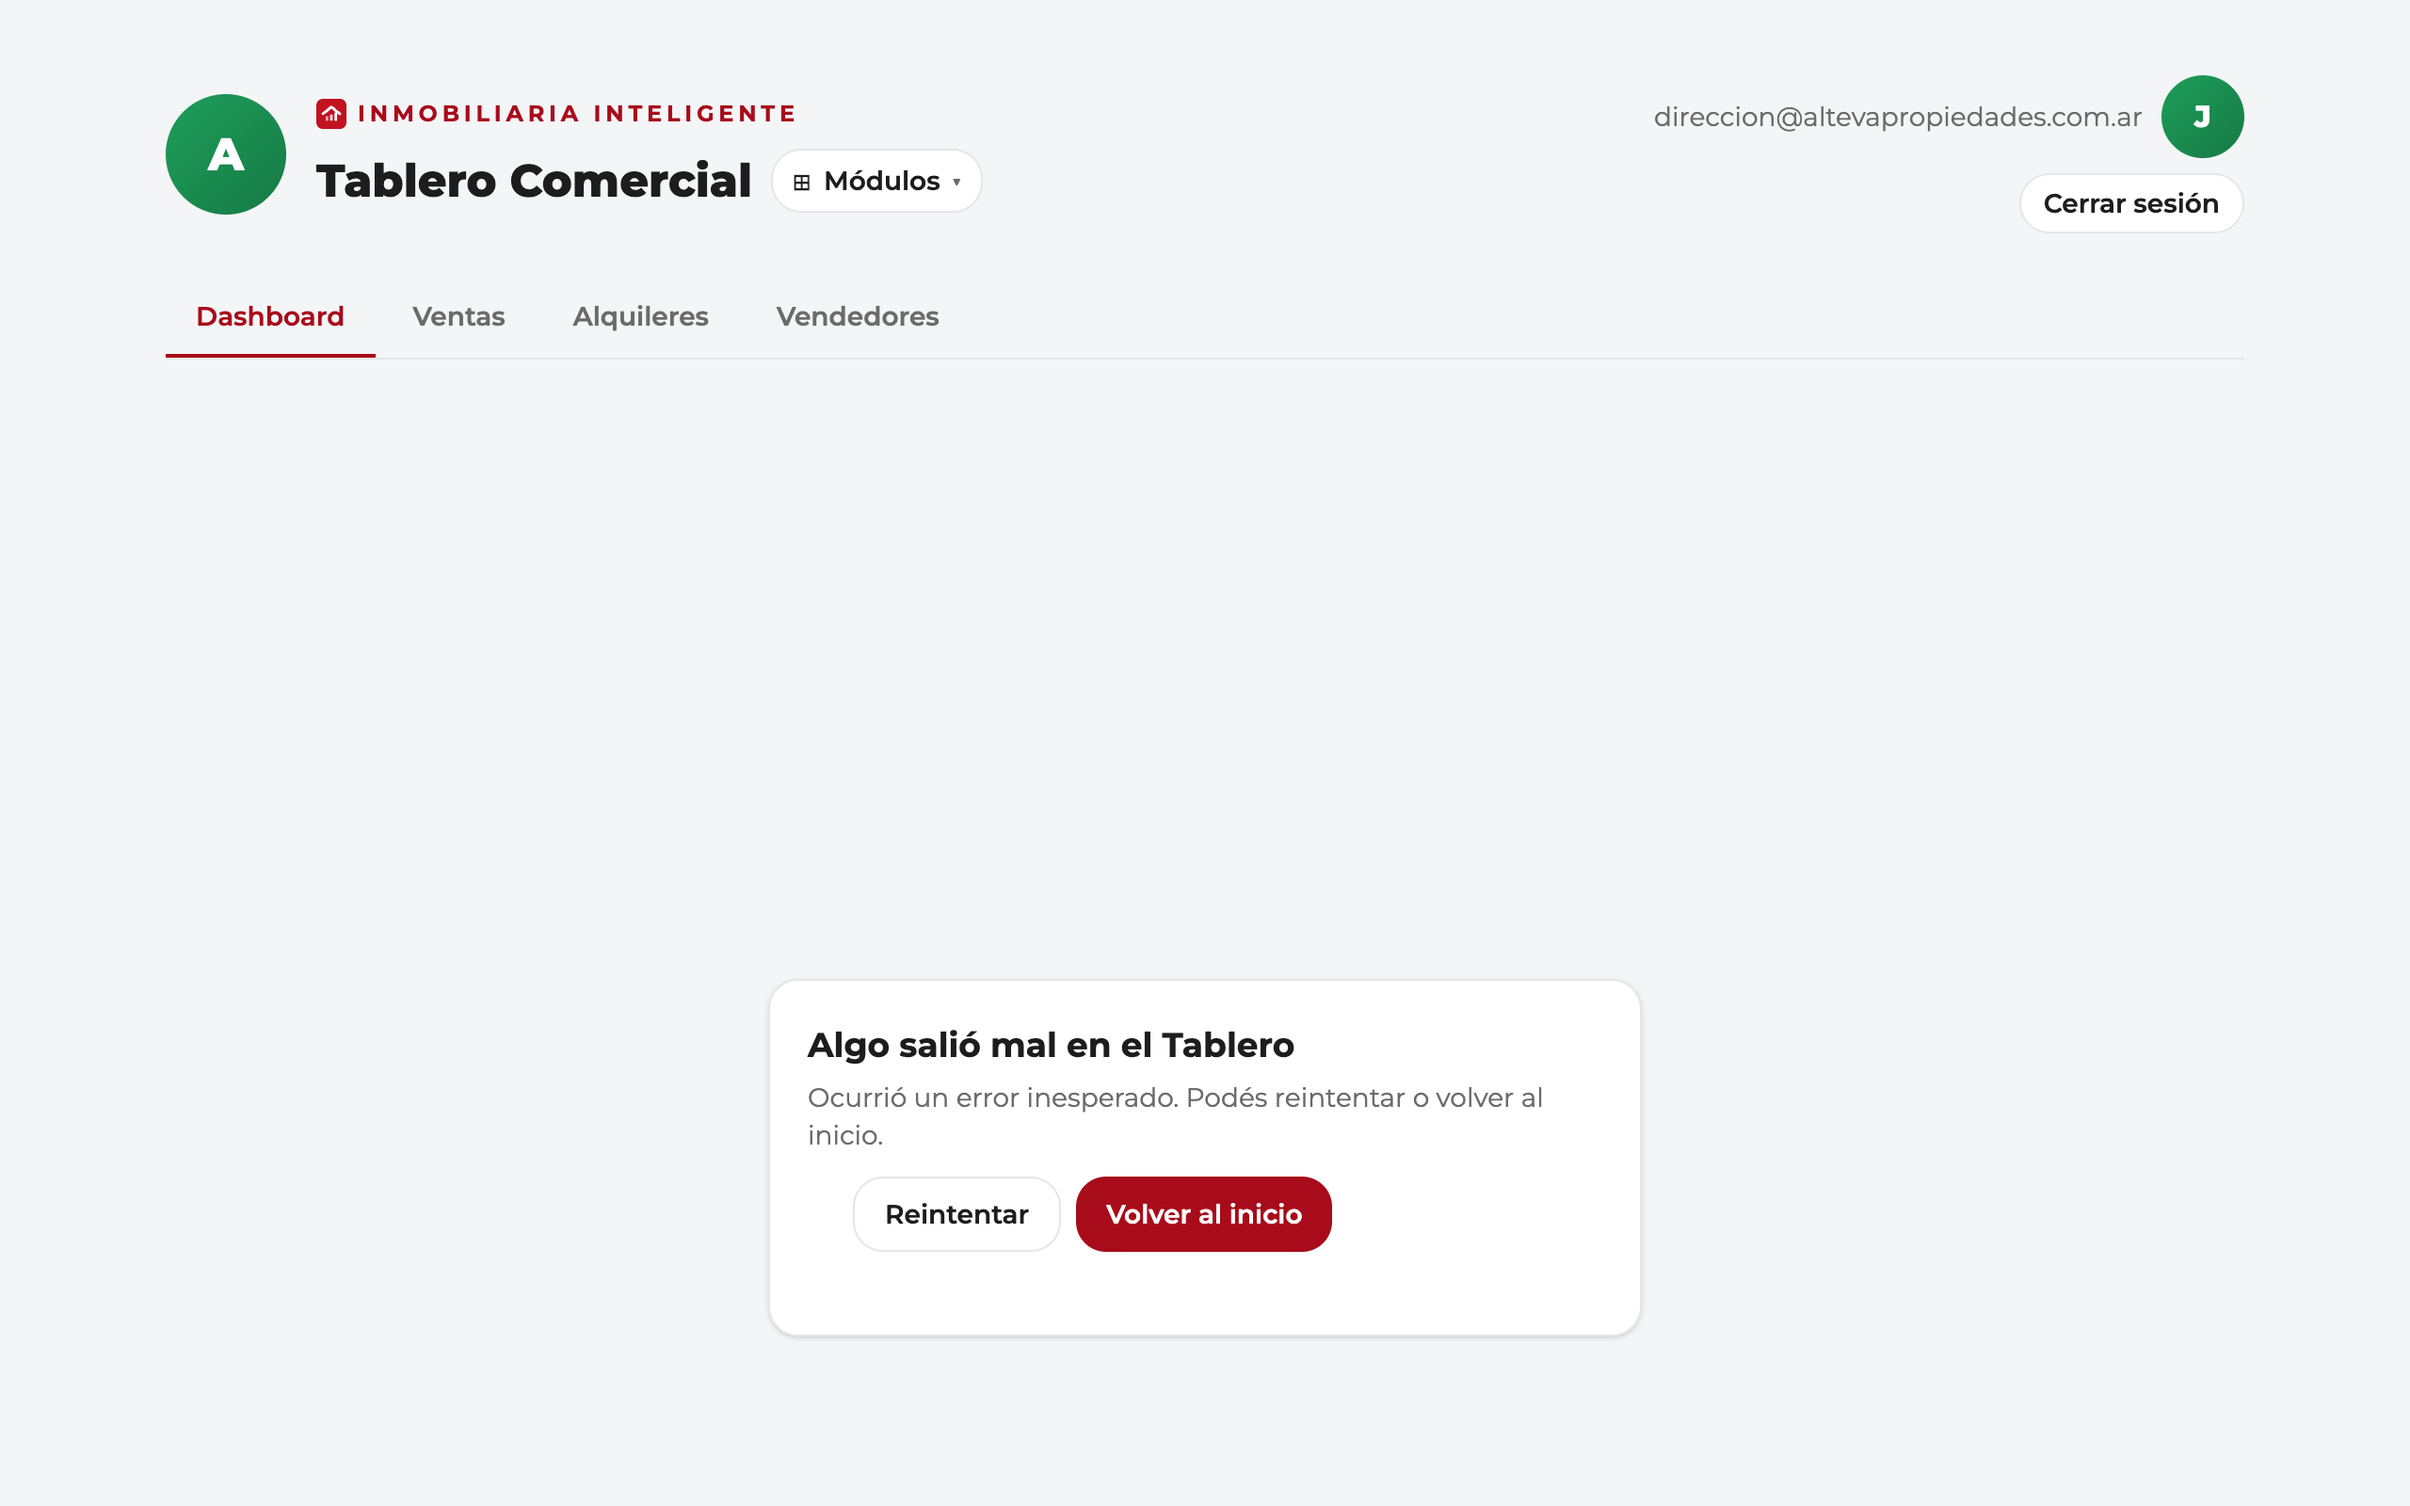
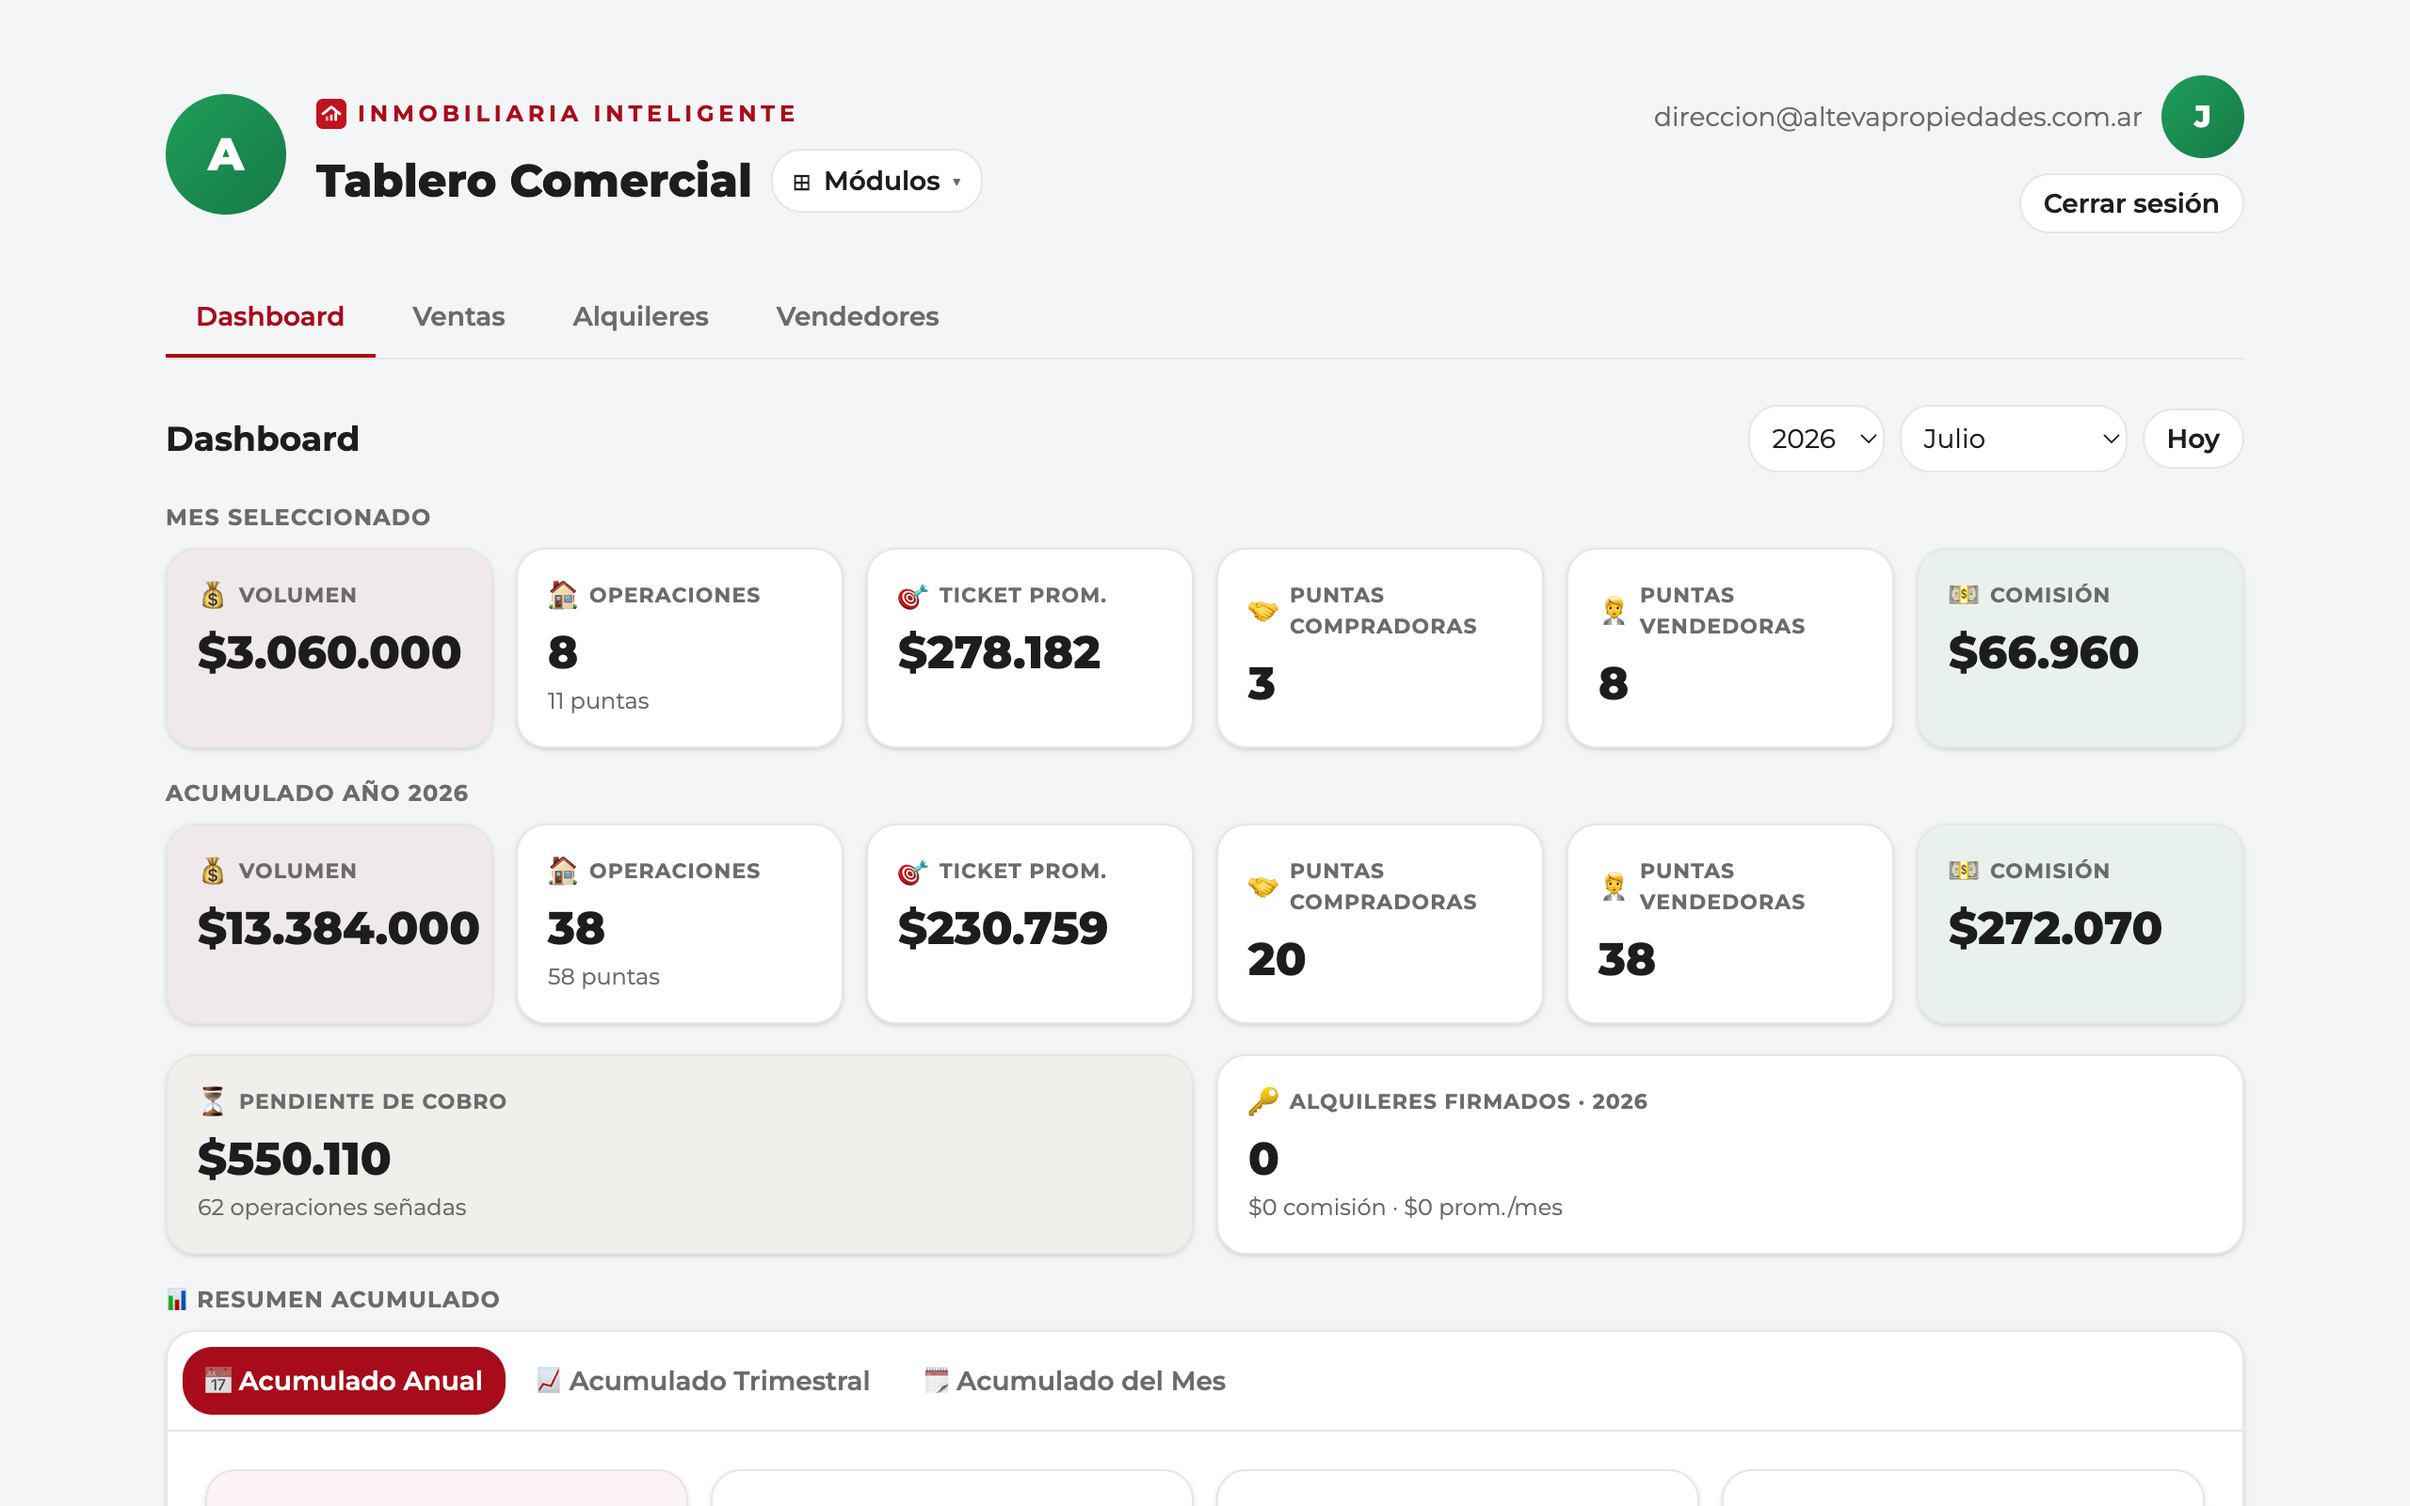
fix(sitio): había publicada una captura con una pantalla de error
La captura principal del Tablero mostraba el cartel "Algo salió mal en el
Tablero". Estuvo publicada y la encontró el usuario, no yo.

La causa es una comprobación que no comprobaba nada: el script espera un
texto de la página antes de disparar, y para el Tablero esperaba
"Dashboard" — que también se dibuja en la pantalla de error, porque el
menú se renderiza igual cuando el contenido falla. El script daba la
captura por buena y yo confié en ese ✓ sin volver a mirarla.

Ahora, antes de cada foto, comprueba que NO esté el cartel de error. Un
texto presente no prueba que la página cargó; que no esté el error, sí.

Revisadas las catorce comparando el peso contra la versión publicada:
tablero-kpis pesaba 106 KB (una pantalla casi vacía) y ahora 264. Las
demás son idénticas byte a byte, así que era la única.

Y sale el listado de vendedores. La inmobiliaria de demostración tiene
entre sus vendedores a las dos personas que en el sitio figuran como los
directores que hicieron el sistema, las dos con objetivo en $0: verlos
ahí confunde a quien está leyendo. Además el pie prometía "cuánto lleva
contra su meta", que esa pantalla no muestra. Se puede volver a sumar
cuando esos usuarios no estén en la demostración.

diff --git a/apps/sitio/app/tablero/page.tsx b/apps/sitio/app/tablero/page.tsx
@@ -69,13 +69,6 @@ export default function Tablero() {
           pie="El mes y el acumulado del año en la misma pantalla. Volumen, operaciones, ticket promedio, puntas compradoras y vendedoras, y la comisión ya calculada."
         />
         <Captura
-          src="/capturas/tablero-objetivos.png"
-          ancho={2560}
-          alto={1600}
-          alt="Seguimiento de vendedores con sus operaciones y su avance contra el objetivo del periodo."
-          pie="Cada vendedor contra su objetivo, mientras todavía se puede hacer algo. No en el cierre del mes."
-        />
-        <Captura
           src="/capturas/tablero-telefono.png"
           ancho={750}
           alto={1624}
